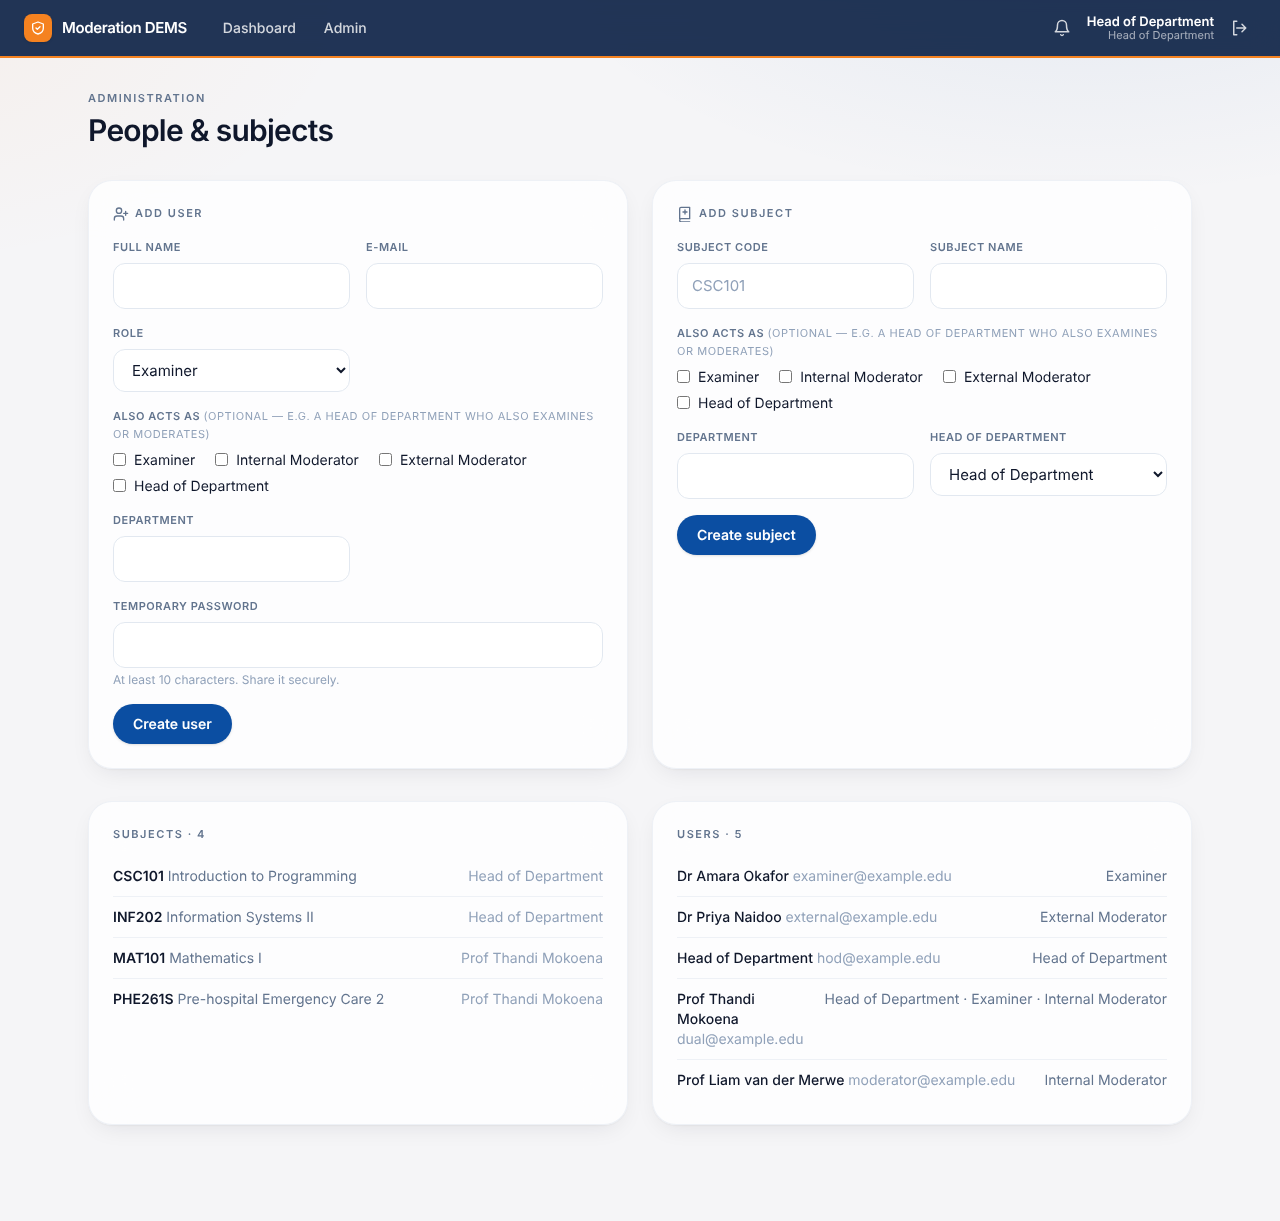
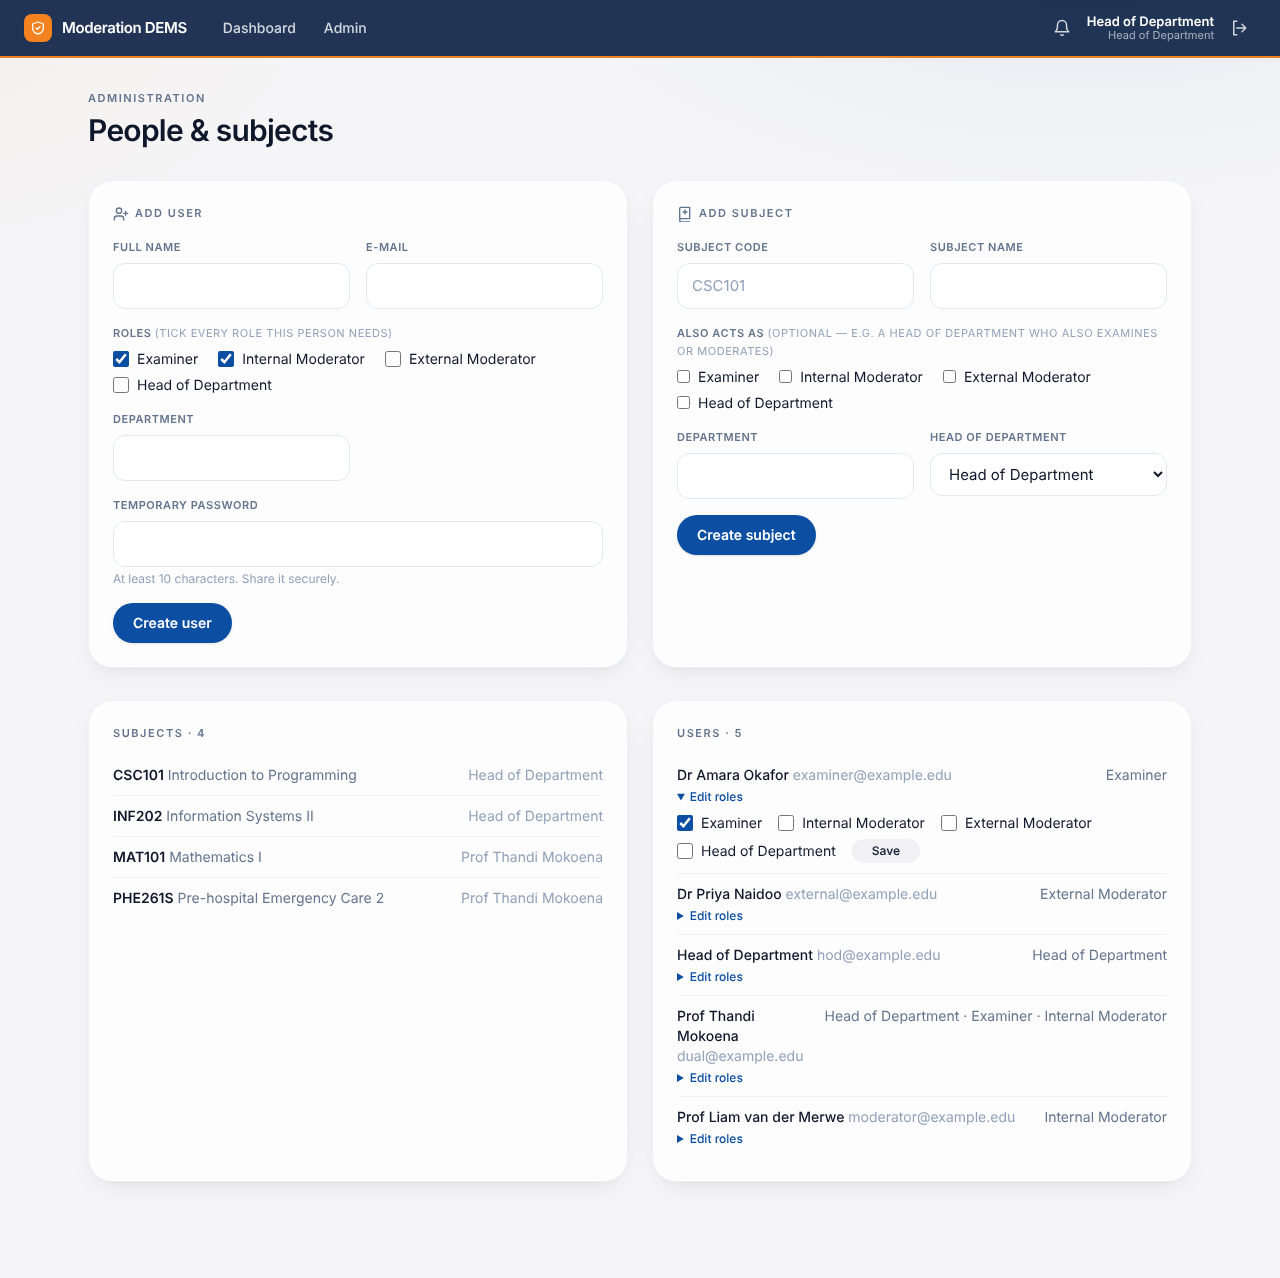
Admin: tick any combination of roles when creating users; edit roles later
Claude-Session: https://claude.ai/code/session_01KMAi7XbmWaGJHSxj4HaG4y

diff --git a/resources/views/admin/index.blade.php b/resources/views/admin/index.blade.php
@@ -8,9 +8,9 @@
       <div class="grid gap-4 sm:grid-cols-2">
         <div><label class="label">Full name</label><input name="name" required class="field" value="{{ old('name') }}"></div>
         <div><label class="label">E-mail</label><input name="email" type="email" required class="field" value="{{ old('email') }}"></div>
-        <div><label class="label">Role</label><select name="role" class="field">@foreach (\App\Enums\Role::cases() as $r)<option value="{{ $r->value }}" @selected(old('role') === $r->value)>{{ $r->label() }}</option>@endforeach</select></div>
-        <div class="sm:col-span-2"><label class="label">Also acts as <span class="font-normal text-slate-400">(optional — e.g. a Head of Department who also examines or moderates)</span></label>
-          <div class="mt-1 flex flex-wrap gap-x-5 gap-y-1.5 text-sm">@foreach (\App\Enums\Role::cases() as $r)<label class="inline-flex items-center gap-2"><input type="checkbox" name="extra_roles[]" value="{{ $r->value }}" @checked(in_array($r->value, old('extra_roles', []), true))> {{ $r->label() }}</label>@endforeach</div></div>
+        <div class="sm:col-span-2"><label class="label">Roles <span class="font-normal text-slate-400">(tick every role this person needs)</span></label>
+          <div class="mt-1 flex flex-wrap gap-x-5 gap-y-1.5 text-sm">@foreach (\App\Enums\Role::cases() as $r)<label class="inline-flex items-center gap-2"><input type="checkbox" name="roles[]" value="{{ $r->value }}" class="h-4 w-4 rounded accent-[#0b4ea2]" @checked(in_array($r->value, old('roles', []), true))> {{ $r->label() }}</label>@endforeach</div>
+          @error('roles')<p class="mt-1 text-xs text-rose-600">{{ $message }}</p>@enderror</div>
         <div><label class="label">Department</label><input name="department" class="field" value="{{ old('department') }}"></div>
       </div>
       <div><label class="label">Temporary password</label><input name="password" type="password" required minlength="10" autocomplete="new-password" class="field"><p class="mt-1 text-xs text-slate-400">At least 10 characters. Share it securely.</p></div>
@@ -33,7 +33,11 @@
     <section class="card p-6"><p class="kicker mb-3">Subjects · {{ $subjects->count() }}</p>
       <ul class="divide-y divide-slate-200/60 text-sm dark:divide-white/10">@forelse ($subjects as $s)<li class="flex justify-between gap-3 py-2.5"><span><span class="font-semibold">{{ $s->code }}</span> <span class="text-slate-500">{{ $s->name }}</span></span><span class="text-slate-400">{{ $s->hod->name }}</span></li>@empty<li class="py-6 text-slate-400">No subjects yet.</li>@endforelse</ul></section>
     <section class="card p-6"><p class="kicker mb-3">Users · {{ $users->count() }}</p>
-      <ul class="divide-y divide-slate-200/60 text-sm dark:divide-white/10">@foreach ($users as $u)<li class="flex justify-between gap-3 py-2.5"><span class="min-w-0"><span class="font-medium">{{ $u->name }}</span> <span class="truncate text-slate-400">{{ $u->email }}</span></span><span class="shrink-0 text-slate-500">{{ $u->roleLabels() }}</span></li>@endforeach</ul></section>
+      <ul class="divide-y divide-slate-200/60 text-sm dark:divide-white/10">@foreach ($users as $u)<li class="py-2.5"><div class="flex justify-between gap-3"><span class="min-w-0"><span class="font-medium">{{ $u->name }}</span> <span class="truncate text-slate-400">{{ $u->email }}</span></span><span class="shrink-0 text-slate-500">{{ $u->roleLabels() }}</span></div>
+        <details class="mt-1"><summary class="cursor-pointer select-none text-xs font-medium text-accent dark:text-accent-dark">Edit roles</summary>
+          <form method="POST" action="{{ route('admin.roles', $u) }}" class="mt-2 flex flex-wrap items-center gap-x-4 gap-y-1.5 text-sm">@csrf @method('PATCH')
+            @foreach (\App\Enums\Role::cases() as $r)<label class="inline-flex items-center gap-2"><input type="checkbox" name="roles[]" value="{{ $r->value }}" class="h-4 w-4 rounded accent-[#0b4ea2]" @checked($u->hasRole($r))> {{ $r->label() }}</label>@endforeach
+            <button class="btn-secondary !py-1 text-xs">Save</button></form></details></li>@endforeach</ul></section>
   </div>
 </div>
 </x-app-layout>

diff --git a/app/Http/Controllers/AdminController.php b/app/Http/Controllers/AdminController.php
@@ -25,17 +25,38 @@ class AdminController extends Controller
         $d = $request->validate([
             'name' => ['required', 'string', 'min:2', 'max:120'],
             'email' => ['required', 'email', 'max:190', 'unique:users,email'],
-            'role' => ['required', Rule::enum(Role::class)],
-            'extra_roles' => ['nullable', 'array'],
-            'extra_roles.*' => [Rule::enum(Role::class)],
+            'roles' => ['required', 'array', 'min:1'],
+            'roles.*' => [Rule::enum(Role::class)],
             'department' => ['nullable', 'string', 'max:120'],
             'password' => ['required', 'string', 'min:10', 'max:128'],
         ], ['password.min' => 'Use at least 10 characters.', 'email.unique' => 'A user with that e-mail already exists.']);
-        $extra = array_values(array_diff(array_unique($d['extra_roles'] ?? []), [$d['role']]));
-        $user = User::create(['name' => $d['name'], 'email' => $d['email'], 'role' => $d['role'], 'extra_roles' => $extra ? implode(',', $extra) : null, 'department' => $d['department'] ?? null, 'password' => $d['password'], 'active' => true]);
+        [$primary, $extra] = $this->splitRoles($d['roles']);
+        $user = User::create(['name' => $d['name'], 'email' => $d['email'], 'role' => $primary, 'extra_roles' => $extra, 'department' => $d['department'] ?? null, 'password' => $d['password'], 'active' => true]);
         $audit->log('USER_CREATED', null, $request->user()->id, ['email' => $user->email, 'roles' => $user->roleValues()], $request->ip());
 
         return back()->with('status', "User {$user->name} created.");
+    }
+
+    /** Tick any combination of roles; the first (in the order shown) becomes the primary role. */
+    public function updateRoles(Request $request, User $user, Audit $audit)
+    {
+        $d = $request->validate(['roles' => ['required', 'array', 'min:1'], 'roles.*' => [Rule::enum(Role::class)]], ['roles.required' => 'Choose at least one role.', 'roles.min' => 'Choose at least one role.']);
+        if ($user->id === $request->user()->id && ! in_array(Role::Hod->value, $d['roles'], true)) {
+            return back()->with('error', 'You cannot remove your own Head of Department role.');
+        }
+        [$primary, $extra] = $this->splitRoles($d['roles']);
+        $user->update(['role' => $primary, 'extra_roles' => $extra]);
+        $audit->log('USER_ROLES_CHANGED', null, $request->user()->id, ['email' => $user->email, 'roles' => $user->roleValues()], $request->ip());
+
+        return back()->with('status', "Roles updated for {$user->name}.");
+    }
+
+    /** @return array{0: string, 1: ?string} */
+    private function splitRoles(array $roles): array
+    {
+        $ordered = array_values(array_filter(array_map(fn (Role $r) => $r->value, Role::cases()), fn ($v) => in_array($v, $roles, true)));
+
+        return [$ordered[0], count($ordered) > 1 ? implode(',', array_slice($ordered, 1)) : null];
     }
 
     public function storeSubject(Request $request, Audit $audit)

diff --git a/tests/Feature/LifecycleTest.php b/tests/Feature/LifecycleTest.php
@@ -359,8 +359,15 @@ class LifecycleTest extends TestCase
         $this->as($this->hod)->get('/assessments/create')->assertOk()->assertSee($this->internal->name);
         $this->assertTrue($this->hod->fresh()->hasRole(\App\Enums\Role::Examiner));
         $this->assertTrue(User::withRole(\App\Enums\Role::InternalModerator)->whereKey($this->hod->id)->exists());
-        $this->as($this->hod)->post('/admin/users', ['name' => 'Dual Person', 'email' => 'dp@t.test', 'role' => 'HOD', 'extra_roles' => ['EXAMINER', 'HOD'], 'password' => 'long-enough-pw'])->assertRedirect();
-        $this->assertSame('EXAMINER', User::where('email', 'dp@t.test')->value('extra_roles'));
+        $this->as($this->hod)->post('/admin/users', ['name' => 'Dual Person', 'email' => 'dp@t.test', 'roles' => ['HOD', 'EXAMINER'], 'password' => 'long-enough-pw'])->assertRedirect();
+        $u = User::where('email', 'dp@t.test')->firstOrFail();
+        $this->assertSame('EXAMINER', $u->role->value); // primary = first in the fixed order
+        $this->assertSame('Examiner · Head of Department', $u->roleLabels());
+        $this->as($this->hod)->post('/admin/users', ['name' => 'None', 'email' => 'none@t.test', 'password' => 'long-enough-pw'])->assertSessionHasErrors('roles');
+        $this->as($this->hod)->patch("/admin/users/{$u->id}/roles", ['roles' => ['EXAMINER', 'INTERNAL_MODERATOR']])->assertRedirect();
+        $this->assertSame('Examiner · Internal Moderator', $u->fresh()->roleLabels());
+        $this->as($this->hod)->patch("/admin/users/{$this->hod->id}/roles", ['roles' => ['EXAMINER']])->assertSessionHas('error');
+        $this->assertTrue($this->hod->fresh()->hasRole(\App\Enums\Role::Hod));
     }
 
     public function test_reviewer_comments_on_documents_go_back_to_the_examiner(): void

diff --git a/routes/web.php b/routes/web.php
@@ -58,6 +58,7 @@ Route::middleware('auth')->group(function () {
     Route::middleware('role:HOD')->prefix('/admin')->group(function () {
         Route::get('/', [AdminController::class, 'index'])->name('admin');
         Route::post('/users', [AdminController::class, 'storeUser'])->name('admin.users');
+        Route::patch('/users/{user}/roles', [AdminController::class, 'updateRoles'])->name('admin.roles');
         Route::post('/subjects', [AdminController::class, 'storeSubject'])->name('admin.subjects');
     });
 });

diff --git a/config/dems.php b/config/dems.php
@@ -30,6 +30,7 @@ return [
         'ASSESSMENT_CREATED' => 'Assessment created',
         'SECTION1_SAVED' => 'Section 1 draft saved',
         'FILE_UPLOADED' => 'File uploaded',
+        'USER_ROLES_CHANGED' => 'User roles changed',
         'DOCUMENT_COMMENTED' => 'Comment added to a document',
         'SECTION1_SUBMITTED' => 'Section 1 signed & submitted',
         'PRE_REVIEW_APPROVED' => 'Pre-moderation approved',

diff --git a/docs/workflow.md b/docs/workflow.md
@@ -8,7 +8,7 @@ The reviewer's comments live in `document_comments` (quote + offset anchor, auth
 
 ## Roles per person
 
-Each user has one primary role and may have **extra roles** (Admin → *Add user → Also acts as*). A Head of Department can therefore also be an examiner or internal moderator. What a person may do on a record is decided by their assignment to it (examiner, internal/external moderator, subject HOD); extra roles only unlock the matching screens and pickers. Rules that still apply: you cannot moderate your own assessment, and moderators must be different people. If one person is both the examiner and the subject's HOD, they sign Section 3 **twice**, once in each capacity.
+Each user has one primary role and may have **extra roles** (Admin → *Add user*: tick every role the person needs; *Edit roles* changes them later). A Head of Department can therefore also be an examiner or internal moderator. What a person may do on a record is decided by their assignment to it (examiner, internal/external moderator, subject HOD); extra roles only unlock the matching screens and pickers. Rules that still apply: you cannot moderate your own assessment, and moderators must be different people. If one person is both the examiner and the subject's HOD, they sign Section 3 **twice**, once in each capacity.
 
 ## Journey at a glance
 

diff --git a/docs/manuals/04-head-of-department.md b/docs/manuals/04-head-of-department.md
@@ -8,7 +8,7 @@ The HOD role has two jobs: **monitor** moderation across the subjects they head,
 
 - The dashboard lists **every record in your subjects**, whatever its status. Use the tiles, tabs and search to see what is pending, returned or completed.
 - Open any record to see its progress, collected signatures and audit trail.
-- If you also hold the Examiner or Internal Moderator role (set by an administrator under *Admin → Add user → Also acts as*), those screens appear for you too; on a record where you are both examiner and HOD you sign Section 3 twice, once per capacity.
+- If you also hold the Examiner or Internal Moderator role (tick any combination of roles when adding a user, or later via *Edit roles* next to the user under *Admin*), those screens appear for you too; on a record where you are both examiner and HOD you sign Section 3 twice, once per capacity.
 - When an external moderator is assigned, you **sign Section 3** of the form (with the examiner) after the external moderator has finished; the record shows **Pending Section 3 Sign-off** and is marked *Your turn*. Otherwise you only receive the result.
 
 ### The final report
